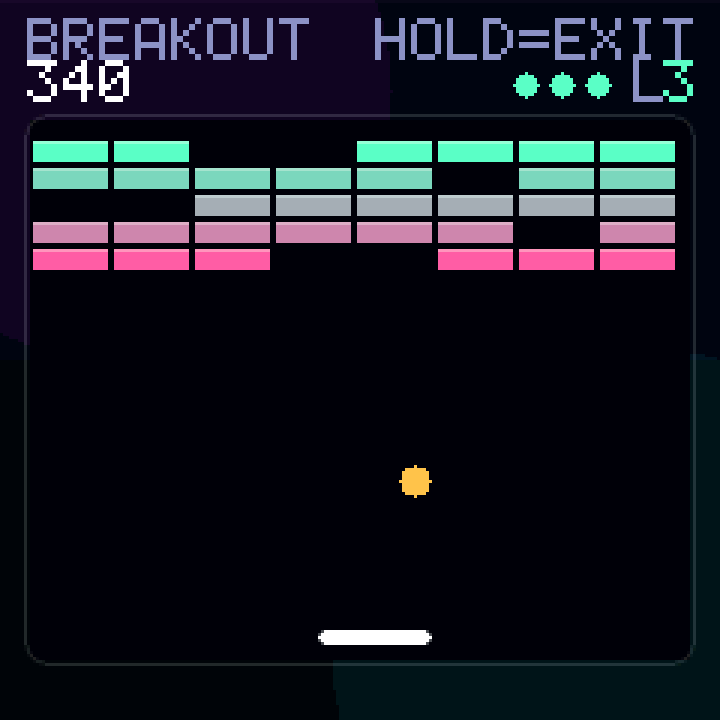
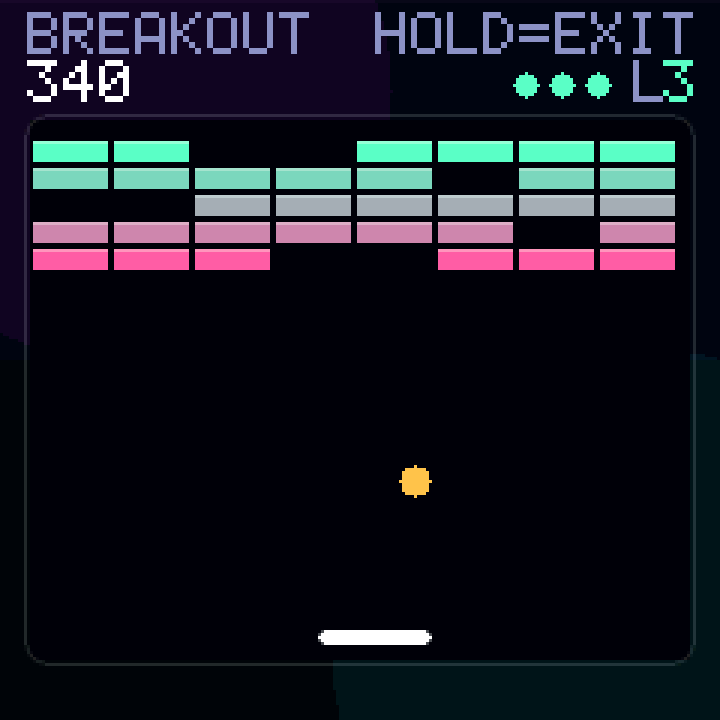
fix(N-05): the title and the score were touching
Restoring the header's 34px block, I met the constraint arithmetically and
did not look at the result: the two rows ended up adjacent, title ending
exactly where the score began. Two lines of text with no gap read as one
block, which is how a 14px numeral stops looking like a score - worst in
Snake and Pong, where the score is short and sits directly under a short
title.

The old layout had 2px there (title 8..22, score 24..38) and that was right.
The block still has to be 34, so the 2px comes out of the top margin instead:
title at 4, score at 20, two clear of each other and two clear of the
playfield below.

The header comment now spells out that all eight spare pixels are spoken for
as three gaps rather than as margin, because the next person to tighten this
will otherwise take the same two back.

Also, the renderer was drawing Tetris's LEVEL and LINES at NEXUS_TXT_VALUE
while the firmware drew them at NEXUS_TXT_BODY - so the doc shots have been
showing numbers the device does not draw. The C is what changed: losing the
score card made those two cards 52px tall, and a body numeral in a card that
size is a small number in a big empty box.

The score itself stays NEXUS_TXT_BODY in all seven. A VALUE score needs 41px
of header against the 36 Tetris leaves, so a bigger score everywhere means a
smaller Tetris well - which is a decision, not a fix.

Changed region(s): [[0.5194, 0.0, 0.9778, 0.0917], [0.0306, 0.0, 0.3972, 0.0917], [0.3667, 0.0, 0.4278, 0.0306]]

diff --git a/include/nexus/widgets.h b/include/nexus/widgets.h
@@ -79,14 +79,24 @@ int nexus_draw_level(int right, int y, uint8_t level);
  * that ticks over invalidates fourteen rows rather than the whole header.
  */
 /*
- * 34, and the two rows inside it are tight against each other, because Tetris
- * decides this number rather than taste: its well is 20 rows of 10px plus a
- * 2px frame either side, which is 204 of the panel's 240 and leaves exactly
- * 36. At 36 the score sat flush on the well's top edge with no air at all, so
- * the header gives back two pixels and takes them out of its own margins.
+ * 34 tall, and every pixel of it is spoken for, because Tetris decides the
+ * number rather than taste: its well is 20 rows of 10px plus a 2px frame
+ * either side, which is 204 of the panel's 240 and leaves exactly 36.
+ *
+ * Two rows of 14px need 28 of that, and the remaining 8 are not margin to
+ * spend - they are three gaps that all have to exist:
+ *
+ *   4  above the title
+ *   2  between the title and the score, or the two lines merge into one
+ *      block of text and the score stops looking like a number
+ *   2  below the score, or it sits flush on the playfield's top edge
+ *
+ * The first version of this took the 2 between the rows and gave it to the
+ * top margin, which is what a header looks like when the constraint is met
+ * arithmetically and not looked at.
  */
 #define NEXUS_HUD_END 34
-#define NEXUS_HUD_TITLE_Y 6
+#define NEXUS_HUD_TITLE_Y 4
 #define NEXUS_HUD_ROW_Y 20
 #define NEXUS_HUD_ROW_H 14
 

diff --git a/tests/games/test_new_games.py b/tests/games/test_new_games.py
@@ -339,8 +339,21 @@ def main():
        % (HDR['NEXUS_HUD_ROW_Y'],
           HDR['NEXUS_HUD_ROW_Y'] + HDR['NEXUS_HUD_ROW_H'],
           HDR['NEXUS_HUD_END']))
-    ok(HDR['NEXUS_HUD_TITLE_Y'] + 14 <= HDR['NEXUS_HUD_ROW_Y'],
-       'and the title row above it does not run into it')
+    # Not "does not overlap" - adjacent is the bug. The first version had
+    # the title end exactly where the score began and the two read as one
+    # block of text, which is how a 14px numeral stops looking like a score.
+    gap = HDR['NEXUS_HUD_ROW_Y'] - (HDR['NEXUS_HUD_TITLE_Y'] + 14)
+    ok(gap >= 2, 'the title clears the score row by %dpx' % gap)
+    ok(HDR['NEXUS_HUD_TITLE_Y'] >= 4,
+       'and the title clears the top of the panel by %d'
+       % HDR['NEXUS_HUD_TITLE_Y'])
+
+    # Same on the other side: the score must not sit flush on a playfield.
+    tet = src('src/games/tetris/tetris.c') + src('include/nexus/widgets.h') \
+        + src('src/games/tetris/tetris_core.h')
+    below = consts(tet, ['FRAME_Y'])['FRAME_Y'] - HDR['NEXUS_HUD_END']
+    ok(below >= 2,
+       'and the tightest field below it (Tetris) clears it by %dpx' % below)
 
     ALL7 = (('tetris', 'src/games/tetris/tetris.c'),
             ('snake', 'src/games/snake/snake.c'),

diff --git a/src/games/tetris/tetris.c b/src/games/tetris/tetris.c
@@ -228,9 +228,11 @@ static void tetris_draw(void)
 	nexus_draw_game_header(&hud);
 
 	draw_well();
-	stat_card(LEVEL_Y, LEVEL_H, "LEVEL", g_t.level, NEXUS_TXT_BODY,
+	/* VALUE, not BODY: losing the score card made these two taller, and a
+	 * body numeral in a 52px card is a small number in a big empty box. */
+	stat_card(LEVEL_Y, LEVEL_H, "LEVEL", g_t.level, NEXUS_TXT_VALUE,
 		  t->accent);
-	stat_card(LINES_Y, LINES_H, "LINES", g_t.lines, NEXUS_TXT_BODY,
+	stat_card(LINES_Y, LINES_H, "LINES", g_t.lines, NEXUS_TXT_VALUE,
 		  t->value);
 	draw_next();
 	draw_overlay();

diff --git a/docs/games.md b/docs/games.md
@@ -244,9 +244,14 @@ fixed at `y 0..NEXUS_HUD_END`, so nothing shifts when you page.
 
 That constant is **34**, and Tetris decides it rather than taste: its well is
 20 rows of 10px plus a 2px frame either side, which is 204 of the panel's 240
-and leaves exactly 36. At 36 the score sat flush on the well's top edge with
-no air at all, so the header gives two pixels back out of its own margins and
-Tetris starts four below it.
+and leaves exactly 36. Two rows of 14px text take 28 of that, and the eight
+left over are not margin to spend -- they are three gaps that all have to
+exist: four above the title, two between the title and the score, and two
+below the score so it does not sit flush on the playfield.
+
+The score is therefore `NEXUS_TXT_BODY` in all seven games. A `NEXUS_TXT_VALUE`
+score would need 41px of header and Tetris has 36, so the only way to a bigger
+score everywhere is a smaller Tetris well.
 
 Tetris keeps the side panel for `LEVEL`, `LINES` and `NEXT` -- those are
 genuinely game-specific -- and having lost the score card, each of the three
